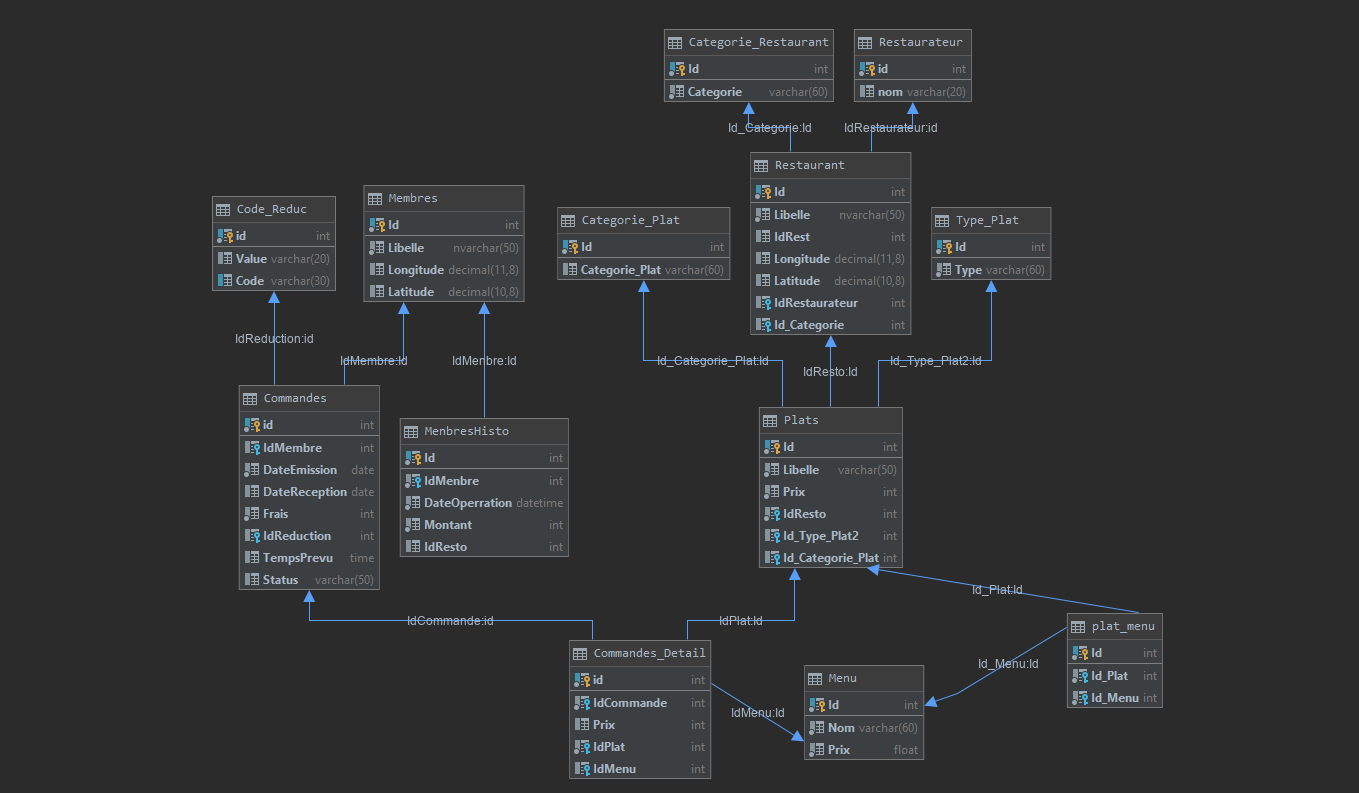
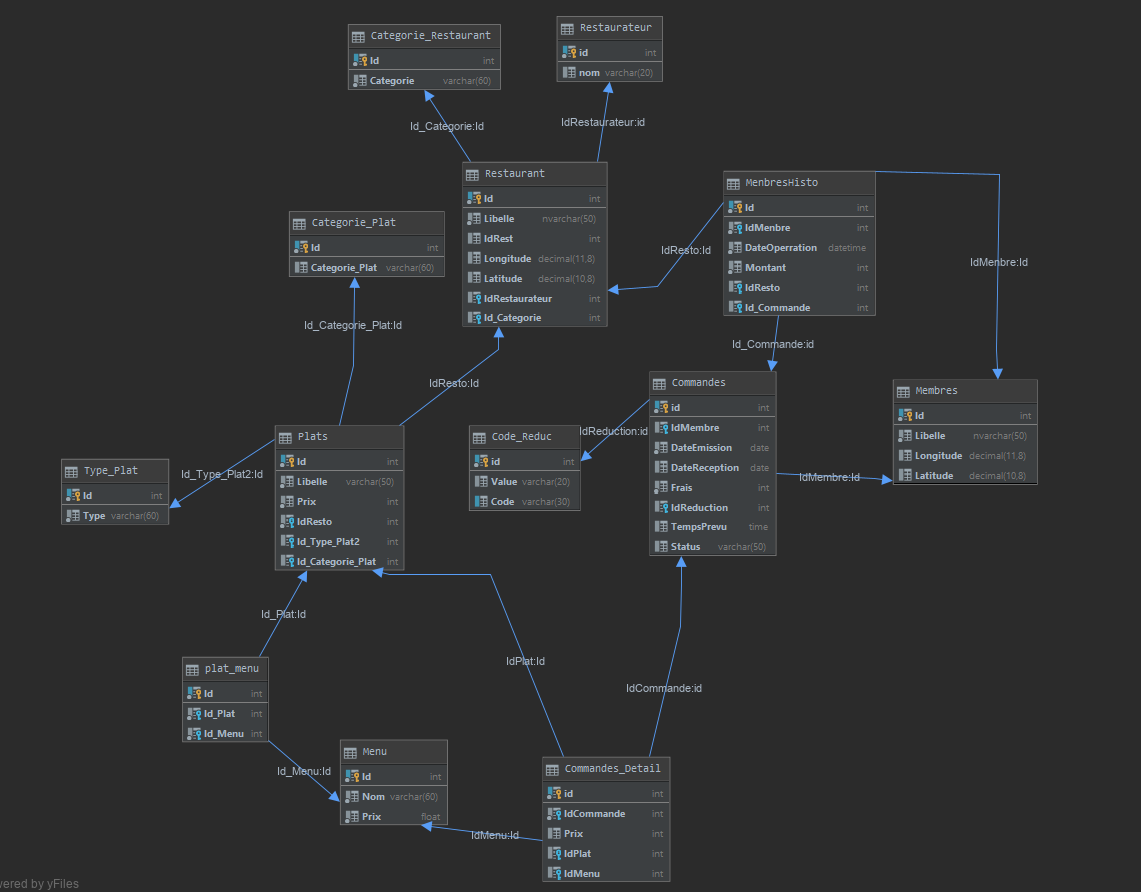
nv schéma

diff --git a/README.md b/README.md
@@ -1,3 +1,2 @@
-Bonjour je fais des test
-  
+![bdd shcema](Ressources/Base.png)
 
